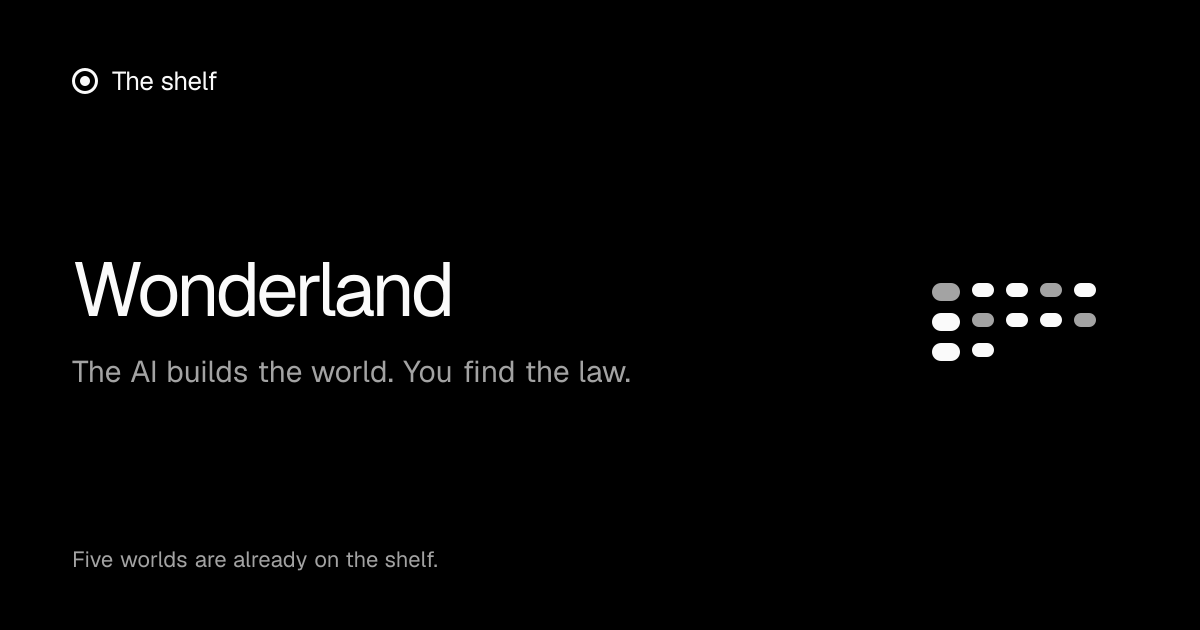
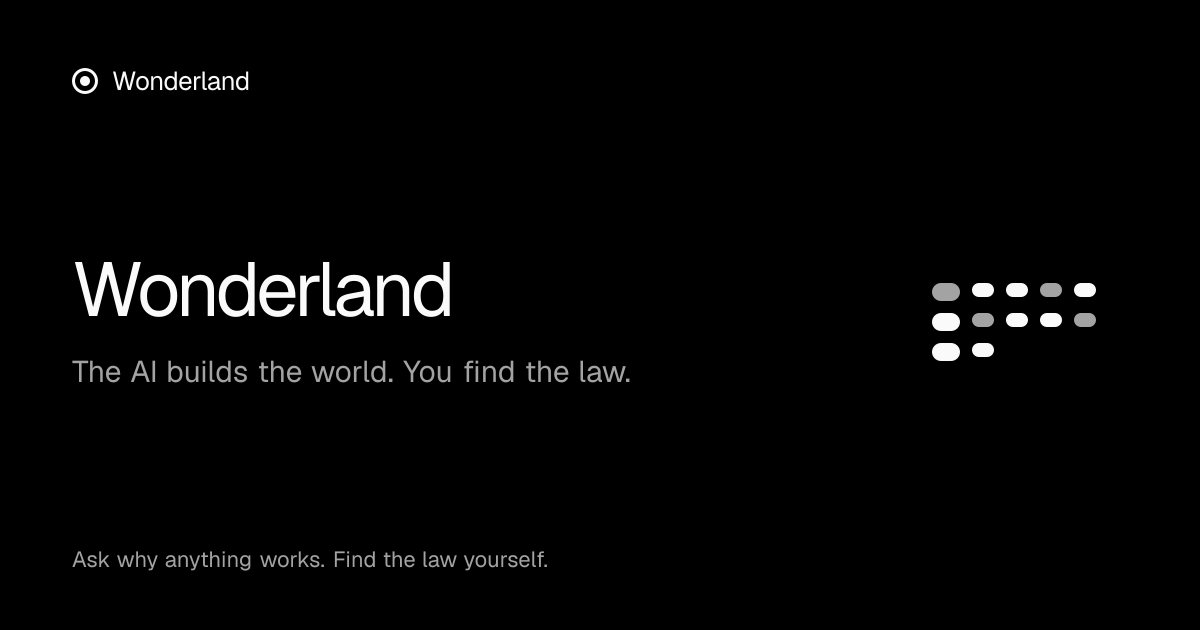
README opens on the black-and-white brand image; share images regenerated from production

Changed region(s): [[0.0617, 0.8746, 0.4625, 0.9048], [0.0925, 0.0905, 0.2158, 0.1508]]

diff --git a/README.md b/README.md
@@ -1,5 +1,7 @@
 # Wonderland
 
+![Wonderland — the AI builds the world, you find the law](docs/design/og-site.png)
+
 **AI that builds the world, not the answer.**
 
 Type any *why* or *how* — "Why does SQL injection work?", "How does natural selection make camouflage?", "Why do bank runs happen?" — and a team of agents built on Meta's models creates a **playable, scientifically verified world** around a **hidden law**. You discover it yourself by predicting and experimenting. The AI never tells you. Then you prove it on a situation you've never seen, racing **Ada**, an AI rival running on Meta open weights.
